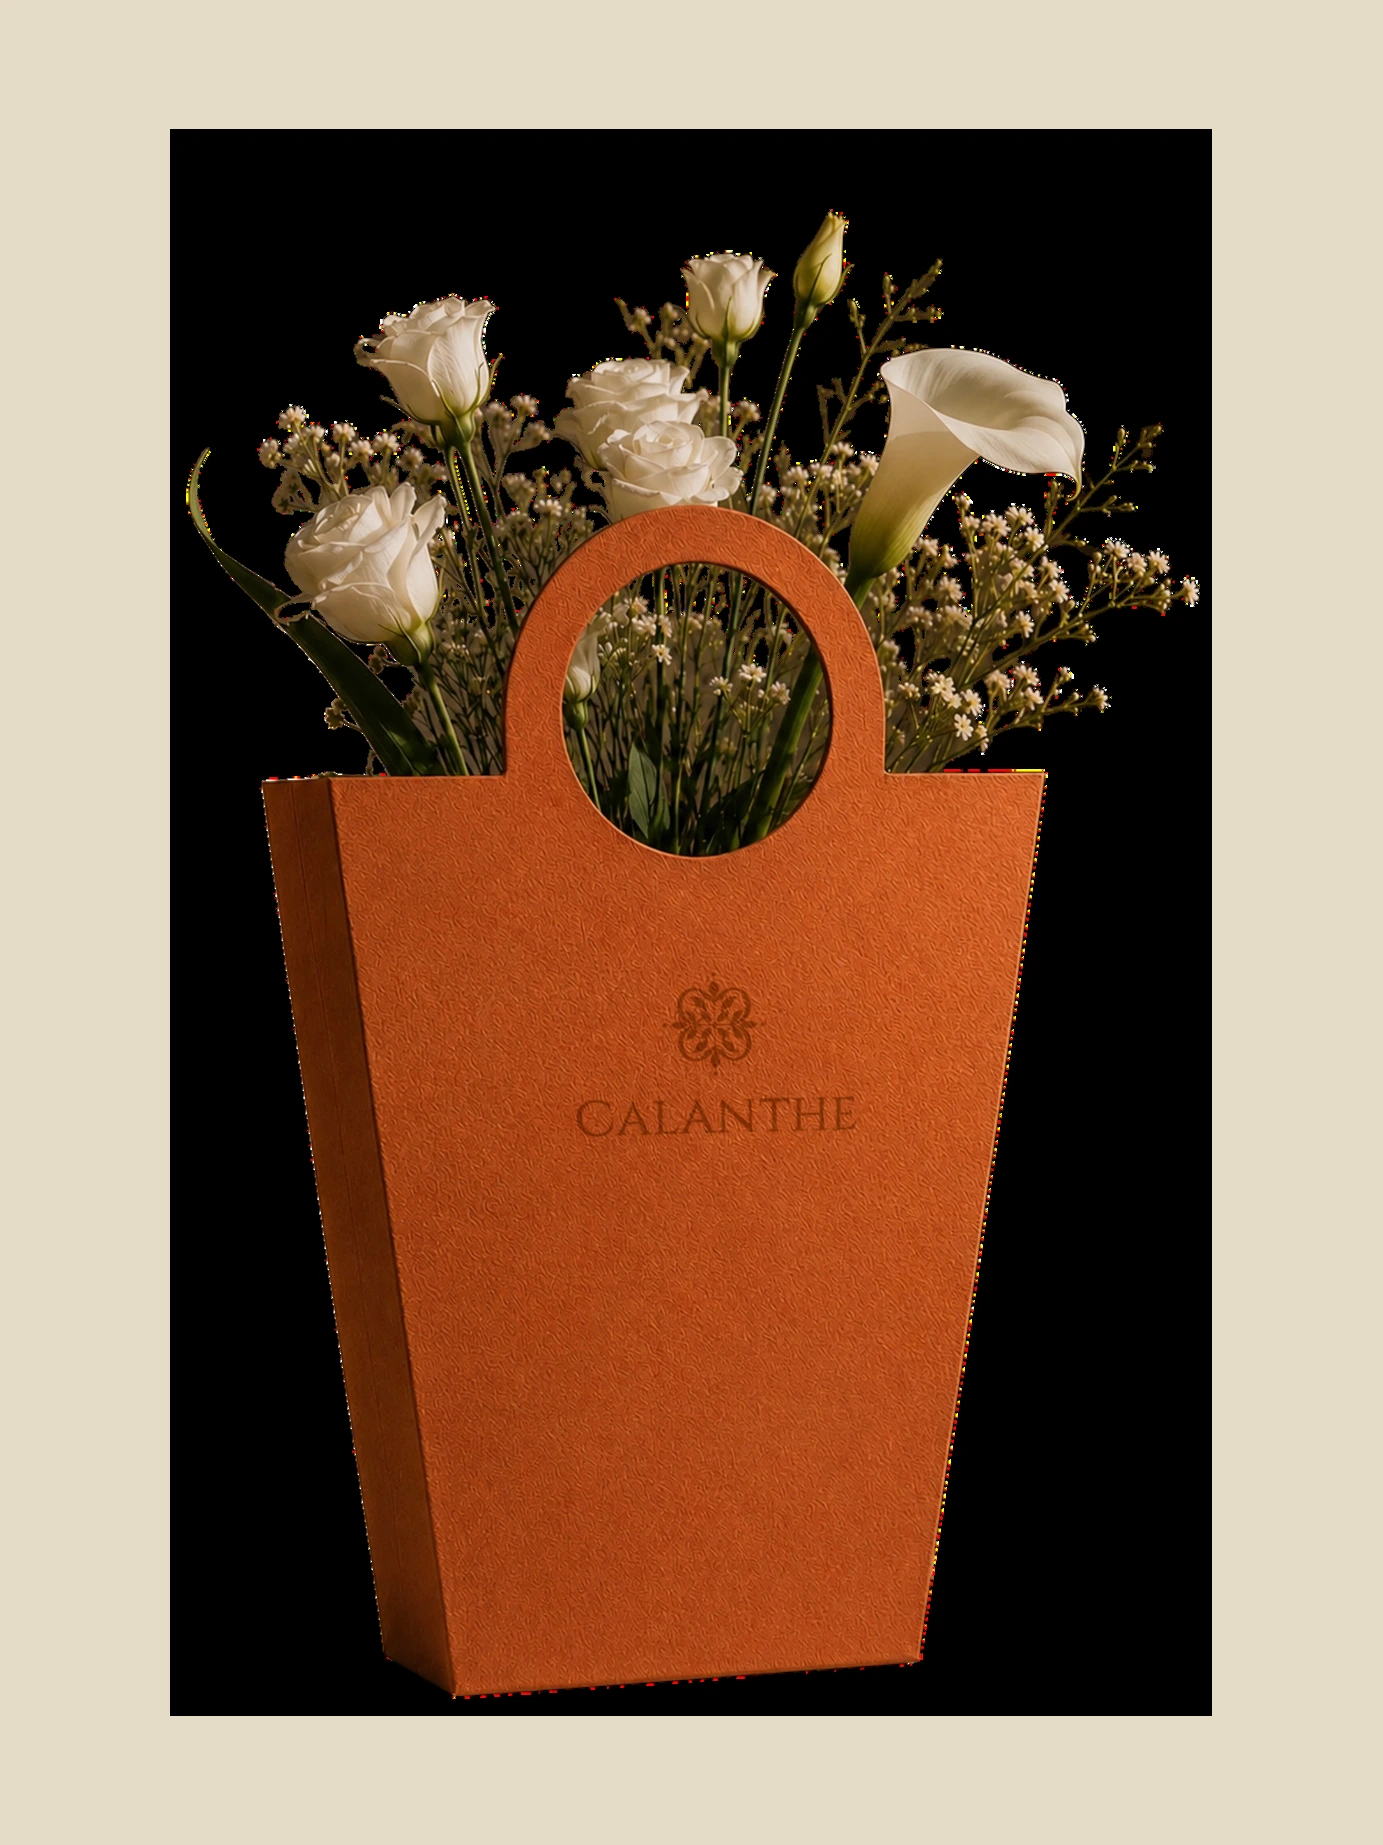
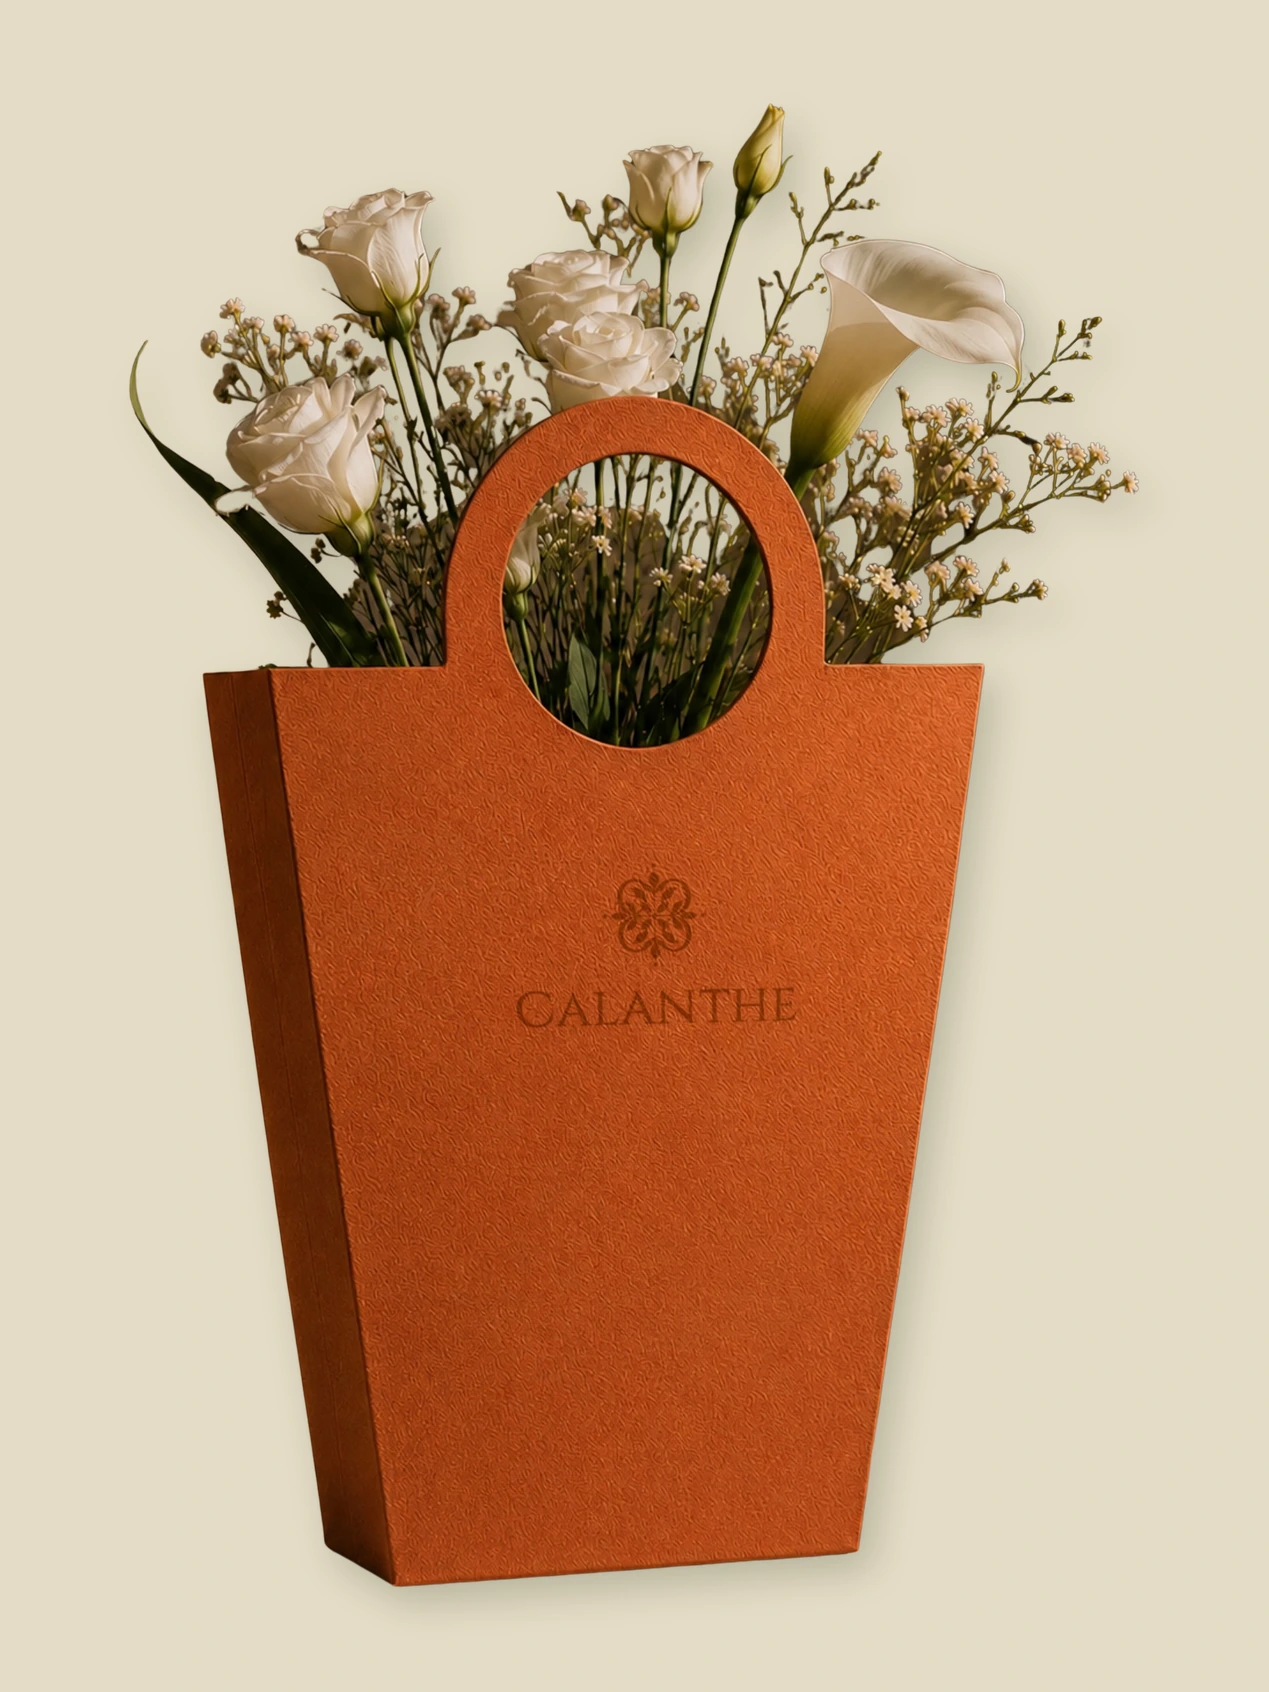
fix(about): clean cut-outs from the identity book's own masks; a real hang-tag photograph
The sleeve and the cards are now cut with the PDF's soft masks (no black
slab, no fringes) and set on cream with a soft silhouette shadow. The
hang-tag tile is the photograph of the olive tag among roses; the lily
picture, which was two photographs stitched together, is cut below its
seam where the best-sellers tile still uses it.

diff --git a/src/lib/i18n/dictionary.ts b/src/lib/i18n/dictionary.ts
@@ -462,7 +462,7 @@ export const en = {
     aboutOrchid: "Calanthe orchid buds, the flower the brand is named after",
     aboutBagTile: "A Calanthe arrangement standing in its olive bag, against deep green velvet",
     aboutSleeve: "A Calanthe terracotta sleeve holding white lisianthus and calla lilies",
-    aboutTag: "A die-cut lily hang tag resting among white lilies",
+    aboutTag: "A Calanthe olive hang tag, cut like a lily, resting among roses and dahlias",
     aboutCard:
       "Calanthe greeting cards in terracotta and olive, debossed with orchids, each with a cream tab pressed with the monogram",
     aboutBloom: "A bloom opening, lit from within — Calanthe's key visual",
@@ -472,7 +472,7 @@ export const en = {
     /* The four packaging details on the About page carry a caption too. */
     labelBag: "The bag",
     labelSleeve: "The sleeve",
-    labelTag: "Lily hang tag",
+    labelTag: "The hang tag",
     labelCard: "Debossed card",
   },
   /**
@@ -1988,7 +1988,7 @@ export const ar: typeof en = {
     aboutOrchid: "براعم أوركيد الكالانثي، الزهرة التي سُمّيت العلامة باسمها",
     aboutBagTile: "تنسيق كالانثي قائمًا في حقيبته الزيتونية، على مخمل أخضر غامق",
     aboutSleeve: "غلاف كالانثي بلون التيراكوتا يحمل زهور الليزيانثوس البيضاء وزنابق الكالا",
-    aboutTag: "بطاقة مقصوصة بشكل زنبقة بين زنابق بيضاء",
+    aboutTag: "بطاقة كالانثي المعلّقة بلون الزيتون، مقصوصة بشكل زنبقة، بين الورود والداليا",
     aboutCard:
       "بطاقات تهانٍ من كالانثي بلوني التيراكوتا والزيتون، منقوشة بزهور الأوركيد، ولكل منها لسان كريمي مضغوط بالشعار",
     aboutBloom: "زهرة تتفتّح، مُضاءة من الداخل — الصورة الأساسية لكالانثي",
@@ -1997,7 +1997,7 @@ export const ar: typeof en = {
 
     labelBag: "الحقيبة",
     labelSleeve: "الغلاف",
-    labelTag: "بطاقة زنبقة",
+    labelTag: "البطاقة المعلّقة",
     labelCard: "بطاقة منقوشة",
   },
   legal: {

diff --git a/src/app/(frontend)/(storefront)/about/page.tsx b/src/app/(frontend)/(storefront)/about/page.tsx
@@ -225,7 +225,7 @@ export default async function AboutPage() {
                 label: t.alt.labelSleeve,
               },
               {
-                src: "/brand/lilies-tag.webp",
+                src: "/brand/hang-tag.webp",
                 alt: t.alt.aboutTag,
                 label: t.alt.labelTag,
               },
